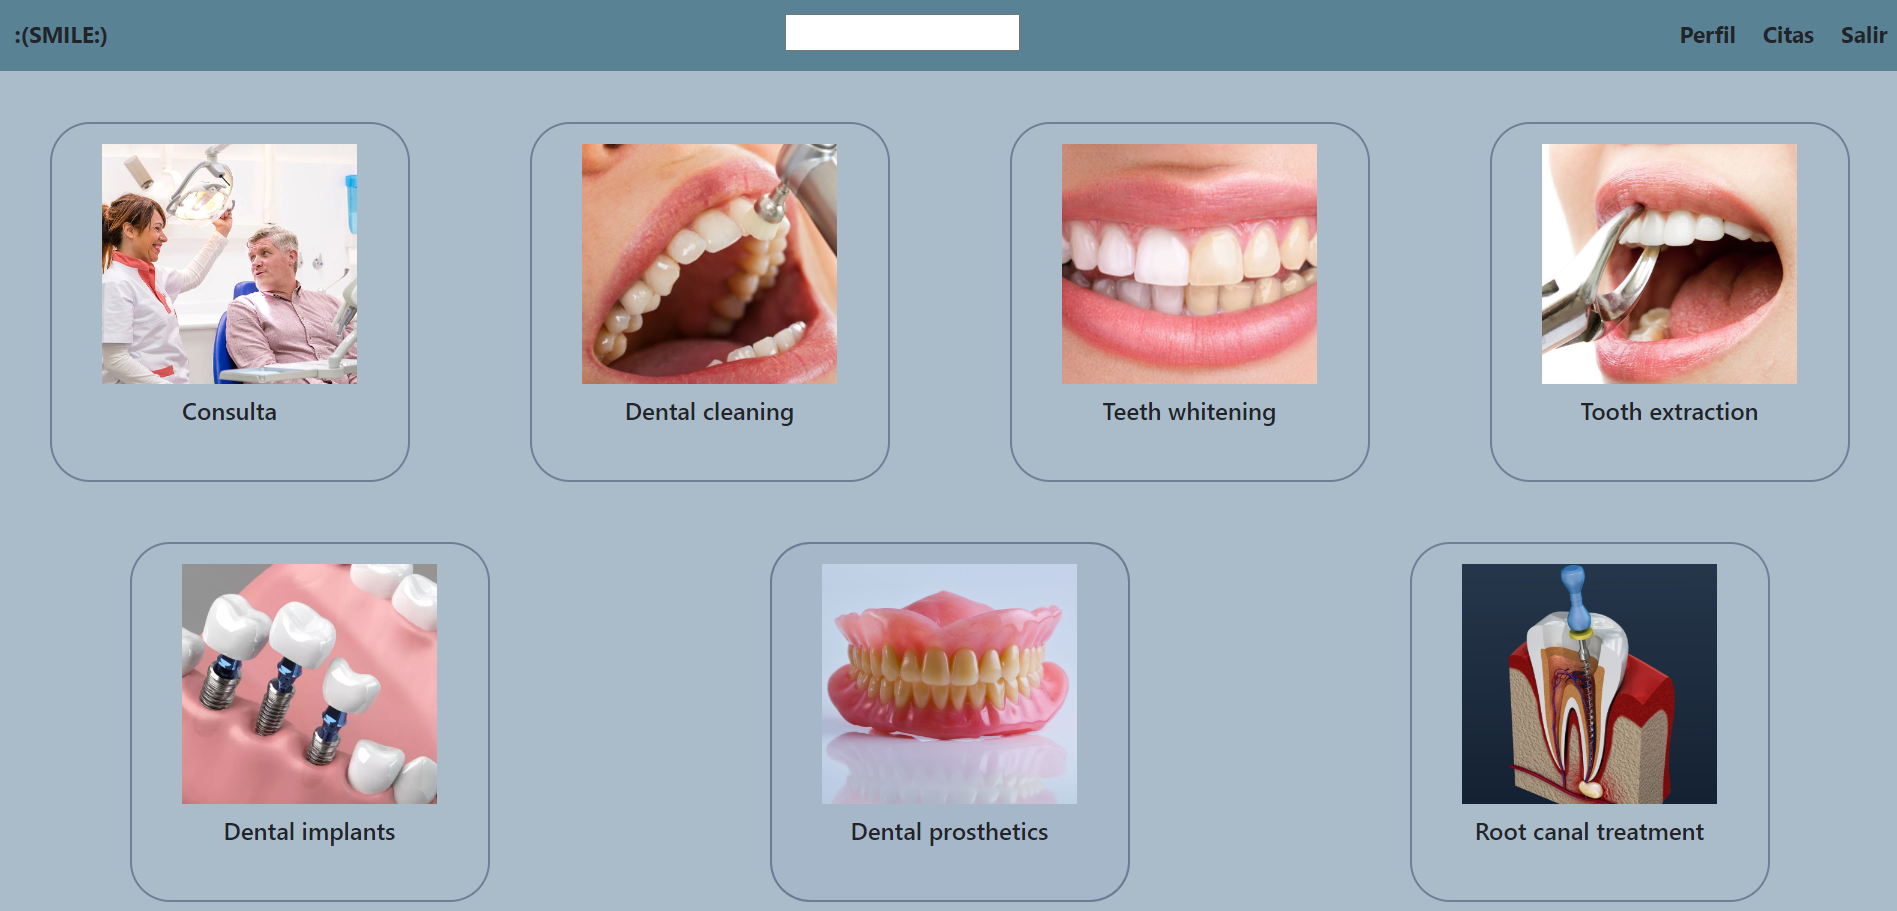
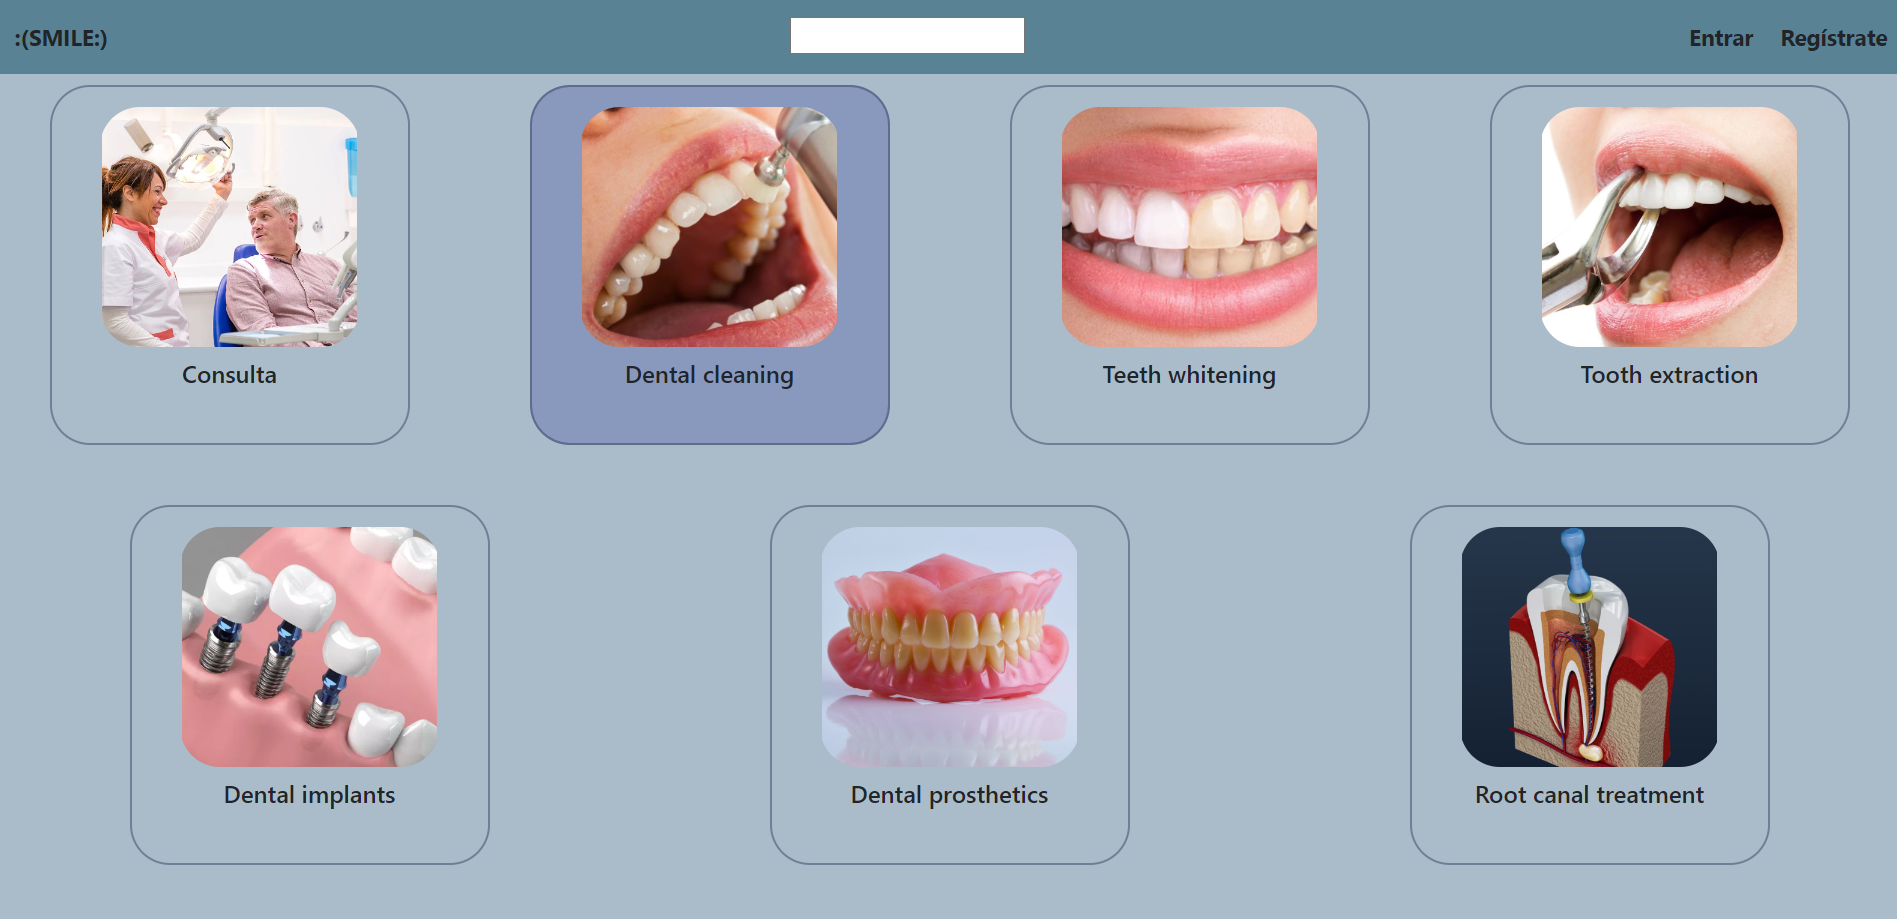
Refactor: clases or cards from home page

diff --git a/src/common/ProductCard/ProductCard.jsx b/src/common/ProductCard/ProductCard.jsx
@@ -12,7 +12,7 @@ export const ProductCard = () => {
             <div className="productCardContainer">
             {products.map((product) => (
                 <div key={product.id} className="productCardDesign">
-                    <img src={product.image} alt={product.name} onClick={() => navigate(`/servicedetail/${product.id}`)} />
+                    <img className="productImgDesign" src={product.image} alt={product.name} onClick={() => navigate(`/servicedetail/${product.id}`)} />
                     <h1>{product.name}</h1>
                 </div>
             ))}

diff --git a/src/common/ProductCard/ProductCard.css b/src/common/ProductCard/ProductCard.css
@@ -18,10 +18,17 @@
     border-radius: 2em;
 }
 
+.productImgDesign{
+    
+}
+
 .productCardDesign img {
     width: 100%;
     height: 12em;
+    width: 13em;
     object-fit: contain;
+    /* border: 0.1em solid #2e3c5a79; */
+    border-radius: 2em;
 }
 
 .productCardDesign h1 {

diff --git a/src/pages/ServiceDetail/ServiceDetail.css b/src/pages/ServiceDetail/ServiceDetail.css
@@ -9,5 +9,7 @@
     height: 100vh; 
 
 }
-/* .DetailService1{
-} */
+.DetailService1{
+   
+   border-radius: 2em; background-color:rgba(120, 148, 170, 0.627);
+}
